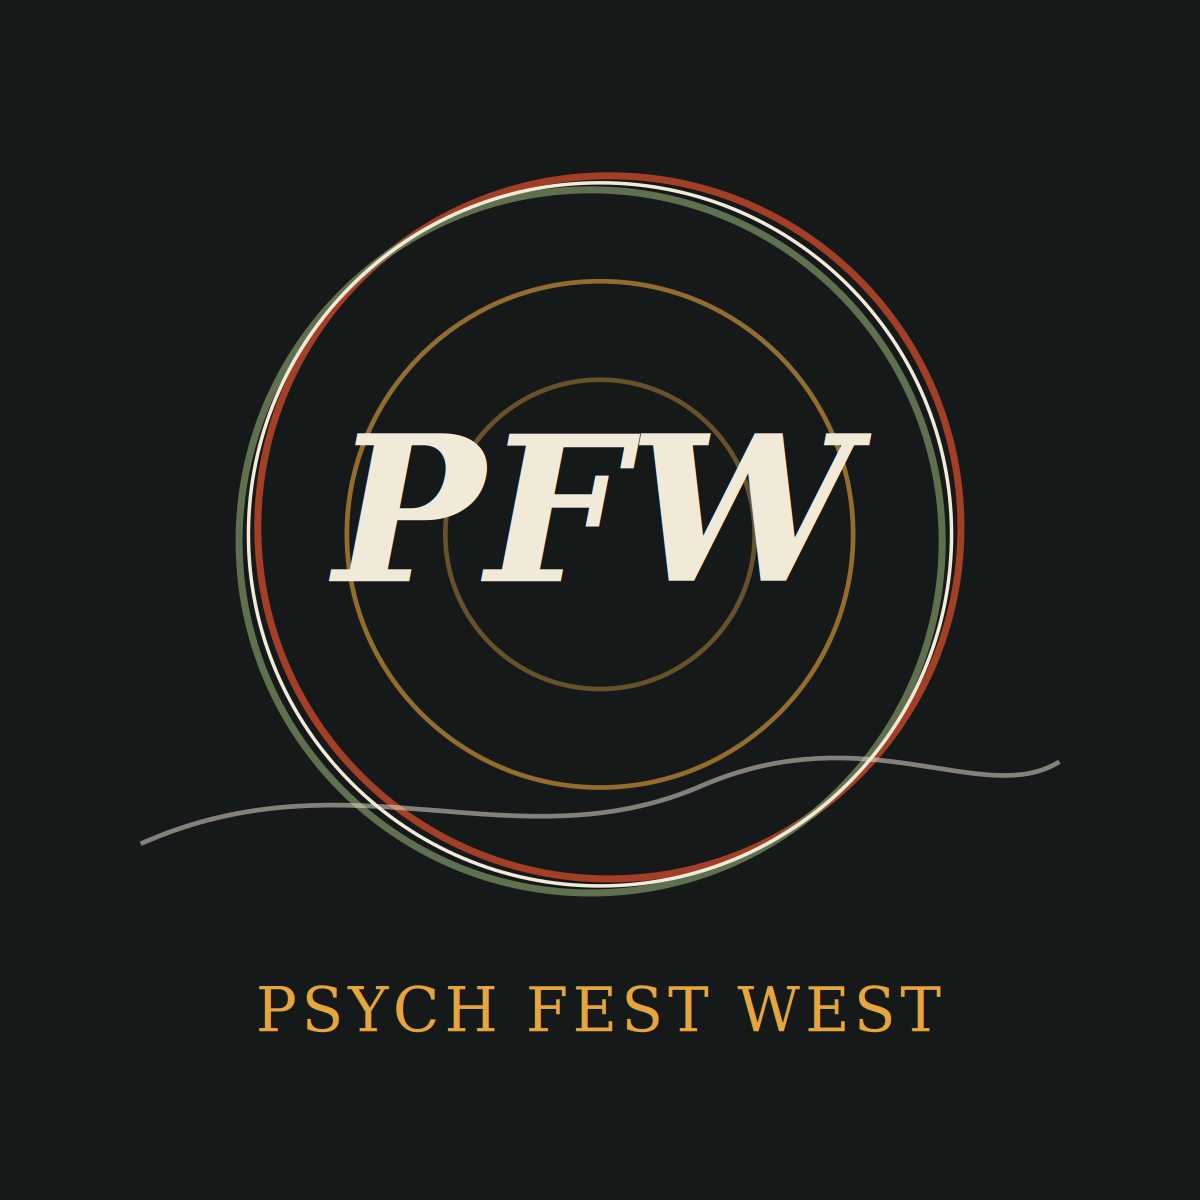
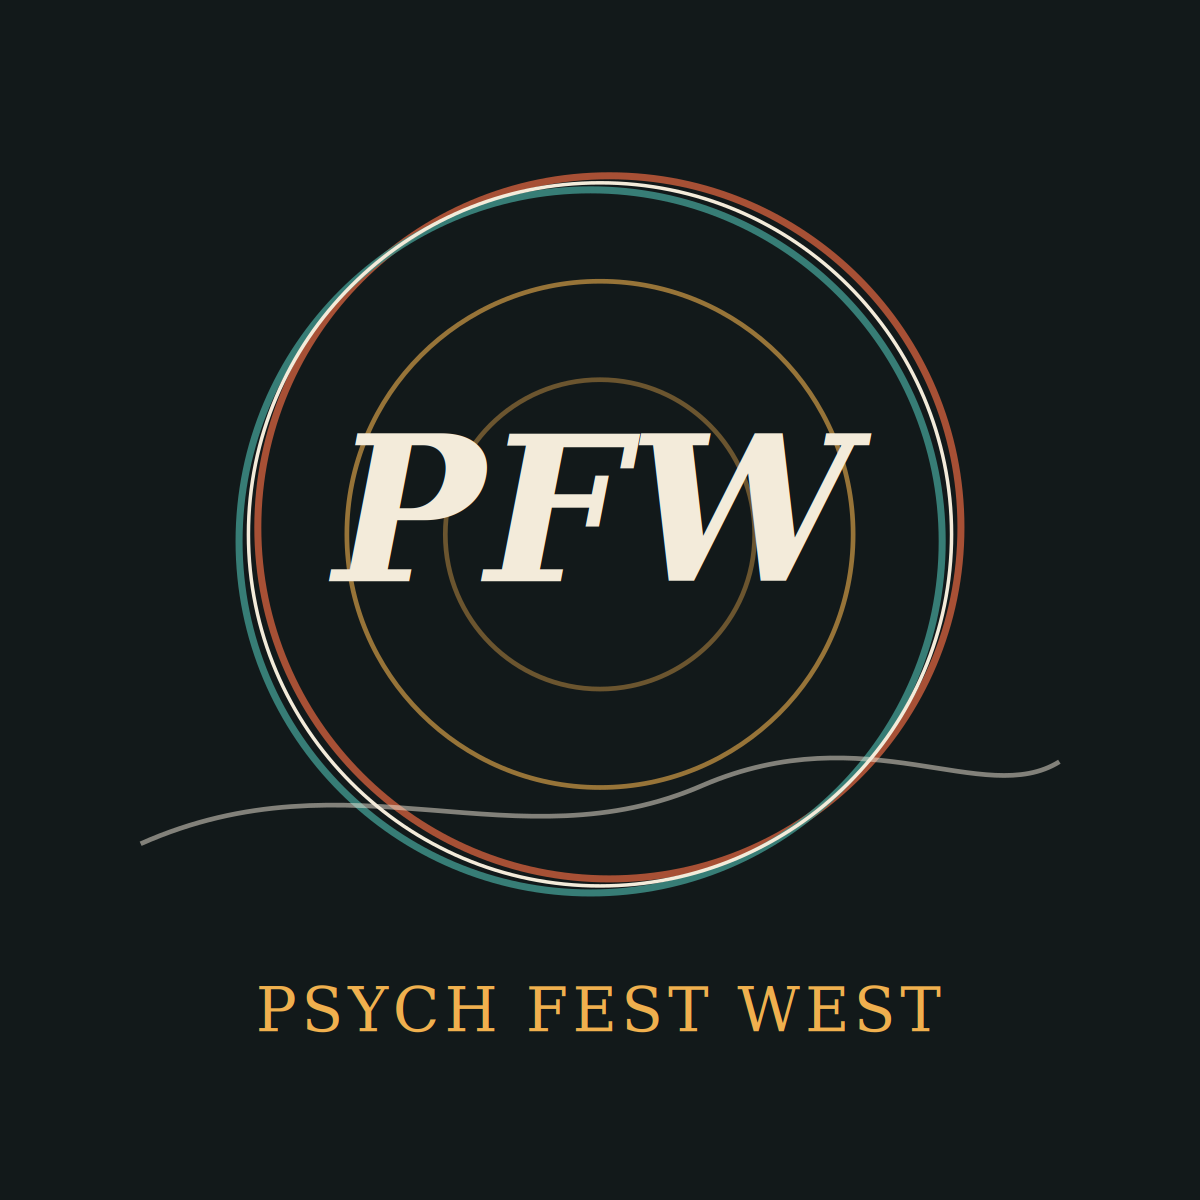
Add files via upload

diff --git a/concepts/claude/index.html b/concepts/claude/index.html
@@ -10,13 +10,13 @@
 <meta property="og:type" content="website">
 <meta property="og:title" content="Psych Fest West">
 <meta property="og:description" content="A Bay Area psychedelic music community. Live music, listening parties, gatherings and other strange happenings on the road to Psych Fest West.">
-<meta property="og:image" content="https://psychfestwest.com/social-card.png">
-<meta property="og:url" content="https://psychfestwest.com">
+<meta property="og:image" content="https://samurai-vershlugan.github.io/psychfestwest/concepts/claude/social-card.png">
+<meta property="og:url" content="https://samurai-vershlugan.github.io/psychfestwest/concepts/claude/">
 <meta name="twitter:card" content="summary_large_image">
 <meta name="twitter:title" content="Psych Fest West">
 <meta name="twitter:description" content="A Bay Area psychedelic music community. Live music, listening parties, gatherings and other strange happenings on the road to Psych Fest West.">
-<meta name="twitter:image" content="https://psychfestwest.com/social-card.png">
-<link rel="canonical" href="https://psychfestwest.com">
+<meta name="twitter:image" content="https://samurai-vershlugan.github.io/psychfestwest/concepts/claude/social-card.png">
+<link rel="canonical" href="https://samurai-vershlugan.github.io/psychfestwest/concepts/claude/">
 <link rel="icon" type="image/svg+xml" href="logo.svg">
 <link rel="icon" type="image/png" href="favicon.png">
 <link rel="apple-touch-icon" href="favicon.png">
@@ -24,7 +24,7 @@
 <!-- Fonts -->
 <link rel="preconnect" href="https://fonts.googleapis.com">
 <link rel="preconnect" href="https://fonts.gstatic.com" crossorigin>
-<link href="https://fonts.googleapis.com/css2?family=Fraunces:ital,opsz,wght@0,9..144,400;0,9..144,500;0,9..144,600;0,9..144,700;1,9..144,500;1,9..144,600&family=Space+Grotesk:wght@400;500;600;700&display=swap" rel="stylesheet">
+<link href="https://fonts.googleapis.com/css2?family=Unbounded:wght@400..900&family=Fraunces:ital,opsz,wght@0,9..144,400;0,9..144,500;0,9..144,600;0,9..144,700;1,9..144,500;1,9..144,600&family=Space+Grotesk:wght@400;500;600;700&display=swap" rel="stylesheet">
 
 <!-- ============================================================
      GOOGLE ANALYTICS — replace G-XXXXXXXXXX with your GA4 Measurement ID
@@ -42,18 +42,21 @@
 
 <style>
   :root{
-    --ink:        #16191A;
-    --ink-soft:   #1F2320;
-    --paper:      #F1EAD9;
-    --paper-dim:  #E4D9BE;
-    --rust:       #BD4426;
-    --rust-light: #D6613F;
-    --marigold:   #E7A63C;
-    --sage:       #6C7F58;
-    --cream:      #F1EAD9;
-    --ink-text:   #201B12;
+    --ink:        #12191C;
+    --ink-soft:   #1B3236;
+    --paper:      #F3EBDA;
+    --paper-dim:  #E6DAB9;
+    --rust:       #C15A3A;
+    --rust-light: #E87A52;
+    --marigold:   #F0B04E;
+    --marigold-light: #F7CE84;
+    --sage:       #3E8E86;
+    --sage-light: #7FC4BA;
+    --cream:      #F3EBDA;
+    --ink-text:   #241C12;
 
     --serif: 'Fraunces', Georgia, serif;
+    --display: 'Unbounded', var(--serif);
     --sans: 'Space Grotesk', -apple-system, BlinkMacSystemFont, 'Segoe UI', sans-serif;
 
     --max: 720px;
@@ -104,28 +107,24 @@
     padding:96px 0 64px;
     overflow:hidden;
     isolation:isolate;
+    background:linear-gradient(180deg, var(--ink) 0%, var(--ink-soft) 40%, var(--rust-light) 78%, var(--marigold) 100%);
   }
-  .hero-halftone{
-    position:absolute; top:-10%; right:-18%; width:70vw; max-width:560px; height:auto;
-    opacity:0.5; z-index:-1; pointer-events:none;
-  }
-  .hero-hills{
-    position:absolute; left:0; right:0; bottom:0; width:100%; height:auto; z-index:-1; pointer-events:none;
-    opacity:0.9;
+  .hero-art{
+    position:absolute; inset:0; width:100%; height:100%; z-index:-1; pointer-events:none;
   }
   .kicker{
     font-size:13px;
     letter-spacing:0.04em;
-    color:var(--marigold);
+    color:var(--marigold-light);
     margin-bottom:18px;
-    max-width:340px;
+    max-width:360px;
   }
   .mark{
     position:relative;
-    font-family:var(--serif);
-    font-weight:600;
-    font-size:clamp(52px, 15vw, 108px);
-    line-height:0.94;
+    font-family:var(--display);
+    font-weight:900;
+    font-size:clamp(46px, 13.5vw, 100px);
+    line-height:0.98;
     letter-spacing:-0.01em;
     margin:0 0 28px;
     width:fit-content;
@@ -133,8 +132,8 @@
   .mark .layer{
     display:block;
   }
-  .mark .l1{ color:var(--rust-light); position:absolute; top:0; left:0; transform:translate(3px,-2px); mix-blend-mode:screen; opacity:0.85; }
-  .mark .l2{ color:var(--sage); position:absolute; top:0; left:0; transform:translate(-3px,2px); mix-blend-mode:screen; opacity:0.85; }
+  .mark .l1{ color:var(--rust-light); position:absolute; top:0; left:0; transform:translate(3px,-2px); mix-blend-mode:screen; opacity:0.8; }
+  .mark .l2{ color:var(--sage-light); position:absolute; top:0; left:0; transform:translate(-3px,2px); mix-blend-mode:screen; opacity:0.8; }
   .mark .l3{ color:var(--cream); position:relative; }
 
   .tagline{
@@ -148,7 +147,7 @@
   }
   .sub{
     max-width:480px;
-    color:#C9C4B4;
+    color:#E9E0CB;
     font-size:16px;
   }
   .scroll-cue{
@@ -157,7 +156,8 @@
     align-items:center;
     gap:10px;
     font-size:13px;
-    color:#9A9585;
+    color:#D9CCAA;
+    text-decoration:none;
   }
   .scroll-cue svg{ width:14px; height:14px; }
 
@@ -387,33 +387,99 @@
      HERO
      ============================================================ -->
 <section class="hero">
-  <svg class="hero-halftone" viewBox="0 0 400 400" aria-hidden="true">
+  <svg class="hero-art" viewBox="0 0 1200 900" preserveAspectRatio="xMidYMax slice" aria-hidden="true">
     <defs>
-      <pattern id="dots" width="16" height="16" patternUnits="userSpaceOnUse">
-        <circle cx="2" cy="2" r="1.6" fill="#E7A63C"/>
+      <pattern id="dots" width="14" height="14" patternUnits="userSpaceOnUse">
+        <circle cx="2" cy="2" r="1.5" fill="#F0B04E"/>
       </pattern>
-      <radialGradient id="fade" cx="50%" cy="50%" r="50%">
+      <radialGradient id="dotFade" cx="50%" cy="50%" r="50%">
         <stop offset="0%" stop-color="white" stop-opacity="1"/>
         <stop offset="100%" stop-color="white" stop-opacity="0"/>
       </radialGradient>
-      <mask id="fadeMask"><rect width="400" height="400" fill="url(#fade)"/></mask>
-    </defs>
-    <rect width="400" height="400" fill="url(#dots)" mask="url(#fadeMask)"/>
-  </svg>
+      <mask id="dotMask"><rect x="680" y="-100" width="600" height="600" fill="url(#dotFade)"/></mask>
 
-  <svg class="hero-hills" viewBox="0 0 1200 220" preserveAspectRatio="none" aria-hidden="true">
-    <path d="M0,180 C150,120 280,190 420,140 C560,90 650,170 820,130 C960,100 1080,160 1200,120 L1200,220 L0,220 Z" fill="#1F2320"/>
-    <path d="M0,200 C180,160 320,210 480,175 C640,140 760,205 940,170 C1050,150 1120,190 1200,165 L1200,220 L0,220 Z" fill="#191C1A" opacity="0.9"/>
+      <radialGradient id="sunGlow" cx="50%" cy="50%" r="50%">
+        <stop offset="0%" stop-color="#F7CE84" stop-opacity="0.95"/>
+        <stop offset="35%" stop-color="#F0B04E" stop-opacity="0.6"/>
+        <stop offset="70%" stop-color="#E87A52" stop-opacity="0.22"/>
+        <stop offset="100%" stop-color="#E87A52" stop-opacity="0"/>
+      </radialGradient>
+
+      <linearGradient id="hillFarGrad" x1="0" y1="565" x2="0" y2="900" gradientUnits="userSpaceOnUse">
+        <stop offset="0" stop-color="#F7CE84" stop-opacity="0.85"/>
+        <stop offset="0.3" stop-color="#3E8E86" stop-opacity="0.7"/>
+        <stop offset="1" stop-color="#3E8E86" stop-opacity="0.55"/>
+      </linearGradient>
+      <linearGradient id="hillMidGrad" x1="0" y1="625" x2="0" y2="900" gradientUnits="userSpaceOnUse">
+        <stop offset="0" stop-color="#F0B04E" stop-opacity="0.75"/>
+        <stop offset="0.28" stop-color="#1B3236" stop-opacity="1"/>
+        <stop offset="1" stop-color="#1B3236" stop-opacity="1"/>
+      </linearGradient>
+      <linearGradient id="hillNearGrad" x1="0" y1="720" x2="0" y2="900" gradientUnits="userSpaceOnUse">
+        <stop offset="0" stop-color="#E87A52" stop-opacity="0.55"/>
+        <stop offset="0.3" stop-color="#12191C" stop-opacity="1"/>
+        <stop offset="1" stop-color="#12191C" stop-opacity="1"/>
+      </linearGradient>
+    </defs>
+
+    <g fill="#F3EBDA">
+      <circle cx="120" cy="70" r="1.6" opacity="0.8"/>
+      <circle cx="220" cy="140" r="1.1" opacity="0.55"/>
+      <circle cx="340" cy="60" r="1.4" opacity="0.7"/>
+      <circle cx="460" cy="130" r="1" opacity="0.5"/>
+      <circle cx="90" cy="220" r="1.2" opacity="0.6"/>
+      <circle cx="560" cy="80" r="1.5" opacity="0.75"/>
+      <circle cx="640" cy="180" r="1" opacity="0.5"/>
+      <circle cx="1080" cy="90" r="1.3" opacity="0.65"/>
+      <circle cx="1150" cy="200" r="1" opacity="0.5"/>
+      <circle cx="980" cy="60" r="1.5" opacity="0.7"/>
+      <circle cx="300" cy="220" r="1" opacity="0.5"/>
+      <circle cx="700" cy="230" r="1.1" opacity="0.55"/>
+    </g>
+    <path d="M180,100 L184,112 L196,113 L187,121 L190,133 L180,126 L170,133 L173,121 L164,113 L176,112 Z" fill="#F7CE84" opacity="0.8"/>
+    <path d="M1000,150 L1002,157 L1009,158 L1003,163 L1005,170 L1000,166 L995,170 L997,163 L991,158 L998,157 Z" fill="#F7CE84" opacity="0.7"/>
+
+    <rect x="680" y="-100" width="600" height="600" fill="url(#dots)" mask="url(#dotMask)"/>
+
+    <g transform="translate(860,300)">
+      <circle r="320" fill="url(#sunGlow)"/>
+      <circle r="120" fill="#F7CE84"/>
+      <g stroke="#F7CE84" stroke-width="1.5" opacity="0.7">
+        <line x1="0" y1="-260" x2="0" y2="-330"/>
+        <line x1="130" y1="-225" x2="165" y2="-285"/>
+        <line x1="225" y1="-130" x2="278" y2="-170"/>
+        <line x1="260" y1="0" x2="330" y2="0"/>
+        <line x1="225" y1="130" x2="278" y2="170"/>
+        <line x1="-130" y1="-225" x2="-165" y2="-285"/>
+        <line x1="-225" y1="-130" x2="-278" y2="-170"/>
+        <line x1="-260" y1="0" x2="-330" y2="0"/>
+        <line x1="0" y1="260" x2="0" y2="330"/>
+        <line x1="130" y1="225" x2="165" y2="285"/>
+        <line x1="-130" y1="225" x2="-165" y2="285"/>
+      </g>
+      <circle r="120" fill="none" stroke="#C15A3A" stroke-width="2" opacity="0.85" transform="translate(4,-3)"/>
+      <circle r="120" fill="none" stroke="#3E8E86" stroke-width="2" opacity="0.85" transform="translate(-4,3)"/>
+      <circle r="120" fill="none" stroke="#F3EBDA" stroke-width="1" opacity="0.6"/>
+      <circle r="78" fill="none" stroke="#F0B04E" stroke-width="1.5" opacity="0.6"/>
+      <circle r="42" fill="none" stroke="#F3EBDA" stroke-width="1" opacity="0.4"/>
+    </g>
+
+    <path d="M0,660 C160,600 300,645 460,605 C620,565 760,630 940,590 C1040,568 1120,600 1200,578 L1200,900 L0,900 Z"
+          fill="url(#hillFarGrad)"/>
+    <path d="M0,720 C180,660 340,710 520,665 C680,625 820,690 1000,650 C1080,632 1150,665 1200,648 L1200,900 L0,900 Z"
+          fill="url(#hillMidGrad)"/>
+    <path d="M0,800 C200,750 360,805 560,760 C740,720 880,780 1080,740 C1130,728 1170,750 1200,740 L1200,900 L0,900 Z"
+          fill="url(#hillNearGrad)"/>
   </svg>
 
   <div class="wrap">
-    <p class="kicker">Bay Area · Psychedelic Music Community</p>
+    <p class="kicker">Bay Area · Psychedelic Rock Music Community</p>
     <h1 class="mark" aria-label="Psych Fest West">
-      <span class="layer l1" aria-hidden="true">PSYCH FEST<br>WEST</span>
-      <span class="layer l2" aria-hidden="true">PSYCH FEST<br>WEST</span>
-      <span class="layer l3">PSYCH FEST<br>WEST</span>
+      <span class="layer l1" aria-hidden="true">PSYCH<br>FEST<br>WEST</span>
+      <span class="layer l2" aria-hidden="true">PSYCH<br>FEST<br>WEST</span>
+      <span class="layer l3">PSYCH<br>FEST<br>WEST</span>
     </h1>
-    <p class="tagline">A Bay Area psychedelic music community.</p>
+    <p class="tagline">Journey beyond reality.</p>
     <p class="sub">Live music, listening parties, gatherings and other strange happenings on the road to Psych Fest West.</p>
 
     <a href="#event" class="scroll-cue" aria-label="Scroll to first event">
@@ -461,8 +527,8 @@
      ============================================================ -->
 <section class="future">
   <svg class="future-hills" viewBox="0 0 1200 200" preserveAspectRatio="none" aria-hidden="true">
-    <path d="M0,160 C200,90 350,170 520,110 C680,60 820,150 1000,100 C1080,80 1140,120 1200,100 L1200,200 L0,200 Z" fill="none" stroke="#6C7F58" stroke-width="1.5" opacity="0.55"/>
-    <path d="M0,180 C220,130 380,190 560,150 C720,115 860,175 1040,140 C1110,125 1160,150 1200,140" fill="none" stroke="#BD4426" stroke-width="1.5" opacity="0.4"/>
+    <path d="M0,160 C200,90 350,170 520,110 C680,60 820,150 1000,100 C1080,80 1140,120 1200,100 L1200,200 L0,200 Z" fill="none" stroke="#3E8E86" stroke-width="1.5" opacity="0.55"/>
+    <path d="M0,180 C220,130 380,190 560,150 C720,115 860,175 1040,140 C1110,125 1160,150 1200,140" fill="none" stroke="#C15A3A" stroke-width="1.5" opacity="0.4"/>
   </svg>
   <div class="wrap">
     <h2>Eventually, all roads lead to an annual Psych Fest West music festival.</h2>

diff --git a/concepts/claude/README.md b/concepts/claude/README.md
@@ -1,0 +1,99 @@
+# Psych Fest West — Site Guide
+
+This is a single, self-contained file (`index.html`) plus a temp logo (`logo.svg` / `favicon.png` / `social-card.png`). No build tools, no framework, nothing to install. You can open `index.html` directly in a browser to preview it.
+
+## What's in the box
+
+- `index.html` — the whole site (structure, styling, and behavior in one file)
+- `logo.svg` — the temp mark, used as the favicon and as the base for the social sharing image
+- `favicon.png`, `social-card.png` — PNG exports of the logo for browser tabs and link previews
+
+## 1. Hosting it (GitHub Pages)
+
+1. Create a new GitHub repo (e.g. `psychfestwest-site`) and upload these files to the root.
+2. In the repo, go to **Settings → Pages**, set the source branch to `main` and folder to `/root`.
+3. Under **Settings → Pages → Custom domain**, add `psychfestwest.com` and follow GitHub's DNS instructions (an A record or CNAME with your domain registrar). GitHub Pages is free and handles HTTPS automatically once the domain is verified.
+
+## 2. Turning on RSVP + mailing list capture (Supabase)
+
+Right now the RSVP and mailing-list forms are live in the design but not connected to anywhere — they'll show a friendly "not connected yet" message until you plug in a free Supabase project. Takes about 10 minutes:
+
+1. Create a free project at [supabase.com](https://supabase.com).
+2. In the SQL editor, run:
+
+   ```sql
+   create table rsvps (
+     id uuid default gen_random_uuid() primary key,
+     name text not null,
+     email text not null,
+     event_title text not null,
+     created_at timestamp with time zone default now()
+   );
+
+   create table subscribers (
+     id uuid default gen_random_uuid() primary key,
+     email text not null,
+     created_at timestamp with time zone default now()
+   );
+
+   alter table rsvps enable row level security;
+   alter table subscribers enable row level security;
+
+   create policy "Allow public insert" on rsvps for insert to anon with check (true);
+   create policy "Allow public insert" on subscribers for insert to anon with check (true);
+   ```
+
+3. Go to **Settings → API** in Supabase, copy your **Project URL** and **anon public key**.
+4. Open `index.html`, find this block near the bottom (search for `SUPABASE_URL`):
+
+   ```js
+   const SUPABASE_URL = "YOUR_SUPABASE_PROJECT_URL";
+   const SUPABASE_ANON_KEY = "YOUR_SUPABASE_ANON_KEY";
+   ```
+
+   Paste your values in. Save, re-upload, done. RSVPs and signups will now land in your Supabase tables, viewable anytime in the Supabase **Table Editor**.
+
+## 3. Turning on analytics (Google Analytics — free)
+
+1. Create a GA4 property at [analytics.google.com](https://analytics.google.com) and grab your **Measurement ID** (looks like `G-XXXXXXXXXX`).
+2. In `index.html`, find the commented-out block near the top (search for `GOOGLE ANALYTICS`) and uncomment it, replacing `G-XXXXXXXXXX` with your real ID in both places.
+
+If you'd rather not deal with Google, [Plausible](https://plausible.io) or [Fathom](https://usefathom.com) are simple, privacy-friendly, low-cost alternatives — just swap in their one-line script tag in the same spot.
+
+## 4. Updating event info yourself
+
+Search `index.html` for `const EVENTS = [`. Each event is one block like this:
+
+```js
+{
+  presents: "Psych Fest West Presents",
+  title: "Gizz Night",
+  date: "Sunday, October 18",
+  time: "3–8 PM",
+  location: "Bay Area, CA",
+  venue: "Venue TBA",
+  description: "Our inaugural gathering featuring...",
+  price: "FREE",
+  rsvpUrl: "#rsvp-gizz-night"
+}
+```
+
+- **To edit the current event:** just change the text between the quotes.
+- **To add a future event:** copy the whole `{ ... }` block, paste it above or below the existing one (separated by a comma), and edit the details. It'll automatically appear on the page as its own flyer card with its own RSVP form — no other changes needed.
+- **To remove an event:** delete its block.
+
+No other part of the file needs to change for routine updates.
+
+## 5. Replacing the temp logo later
+
+`logo.svg` is intentionally simple — a placeholder mark, not a finished brand identity. When you have a real logo:
+
+- Replace `logo.svg`, `favicon.png`, and `social-card.png` with your new files (same filenames keeps everything else working automatically), or
+- Update the `<link rel="icon">` and `og:image` tags near the top of `index.html` if the new filenames are different.
+
+## Design notes (for whoever touches this next)
+
+- **Colors:** ink `#12191C`, ink-soft/teal `#1B3236`, paper `#F3EBDA`, coral-deep `#C15A3A`, coral `#E87A52`, gold `#F0B04E`, teal `#3E8E86`.
+- **Type:** Unbounded Black (the PSYCH FEST WEST wordmark only) + Fraunces (section headlines, italic taglines) + Space Grotesk (body/UI), all loaded free from Google Fonts.
+- **The wordmark's "misprint" look** is three offset text layers with blend modes — it's CSS, not an image, so it stays crisp at any size.
+- **The hero background** (starfield → sunset sky → sun → layered hills) is one inline SVG with gradient-filled hill shapes for a soft rim-light blend at the horizon — no image files, loads instantly.
